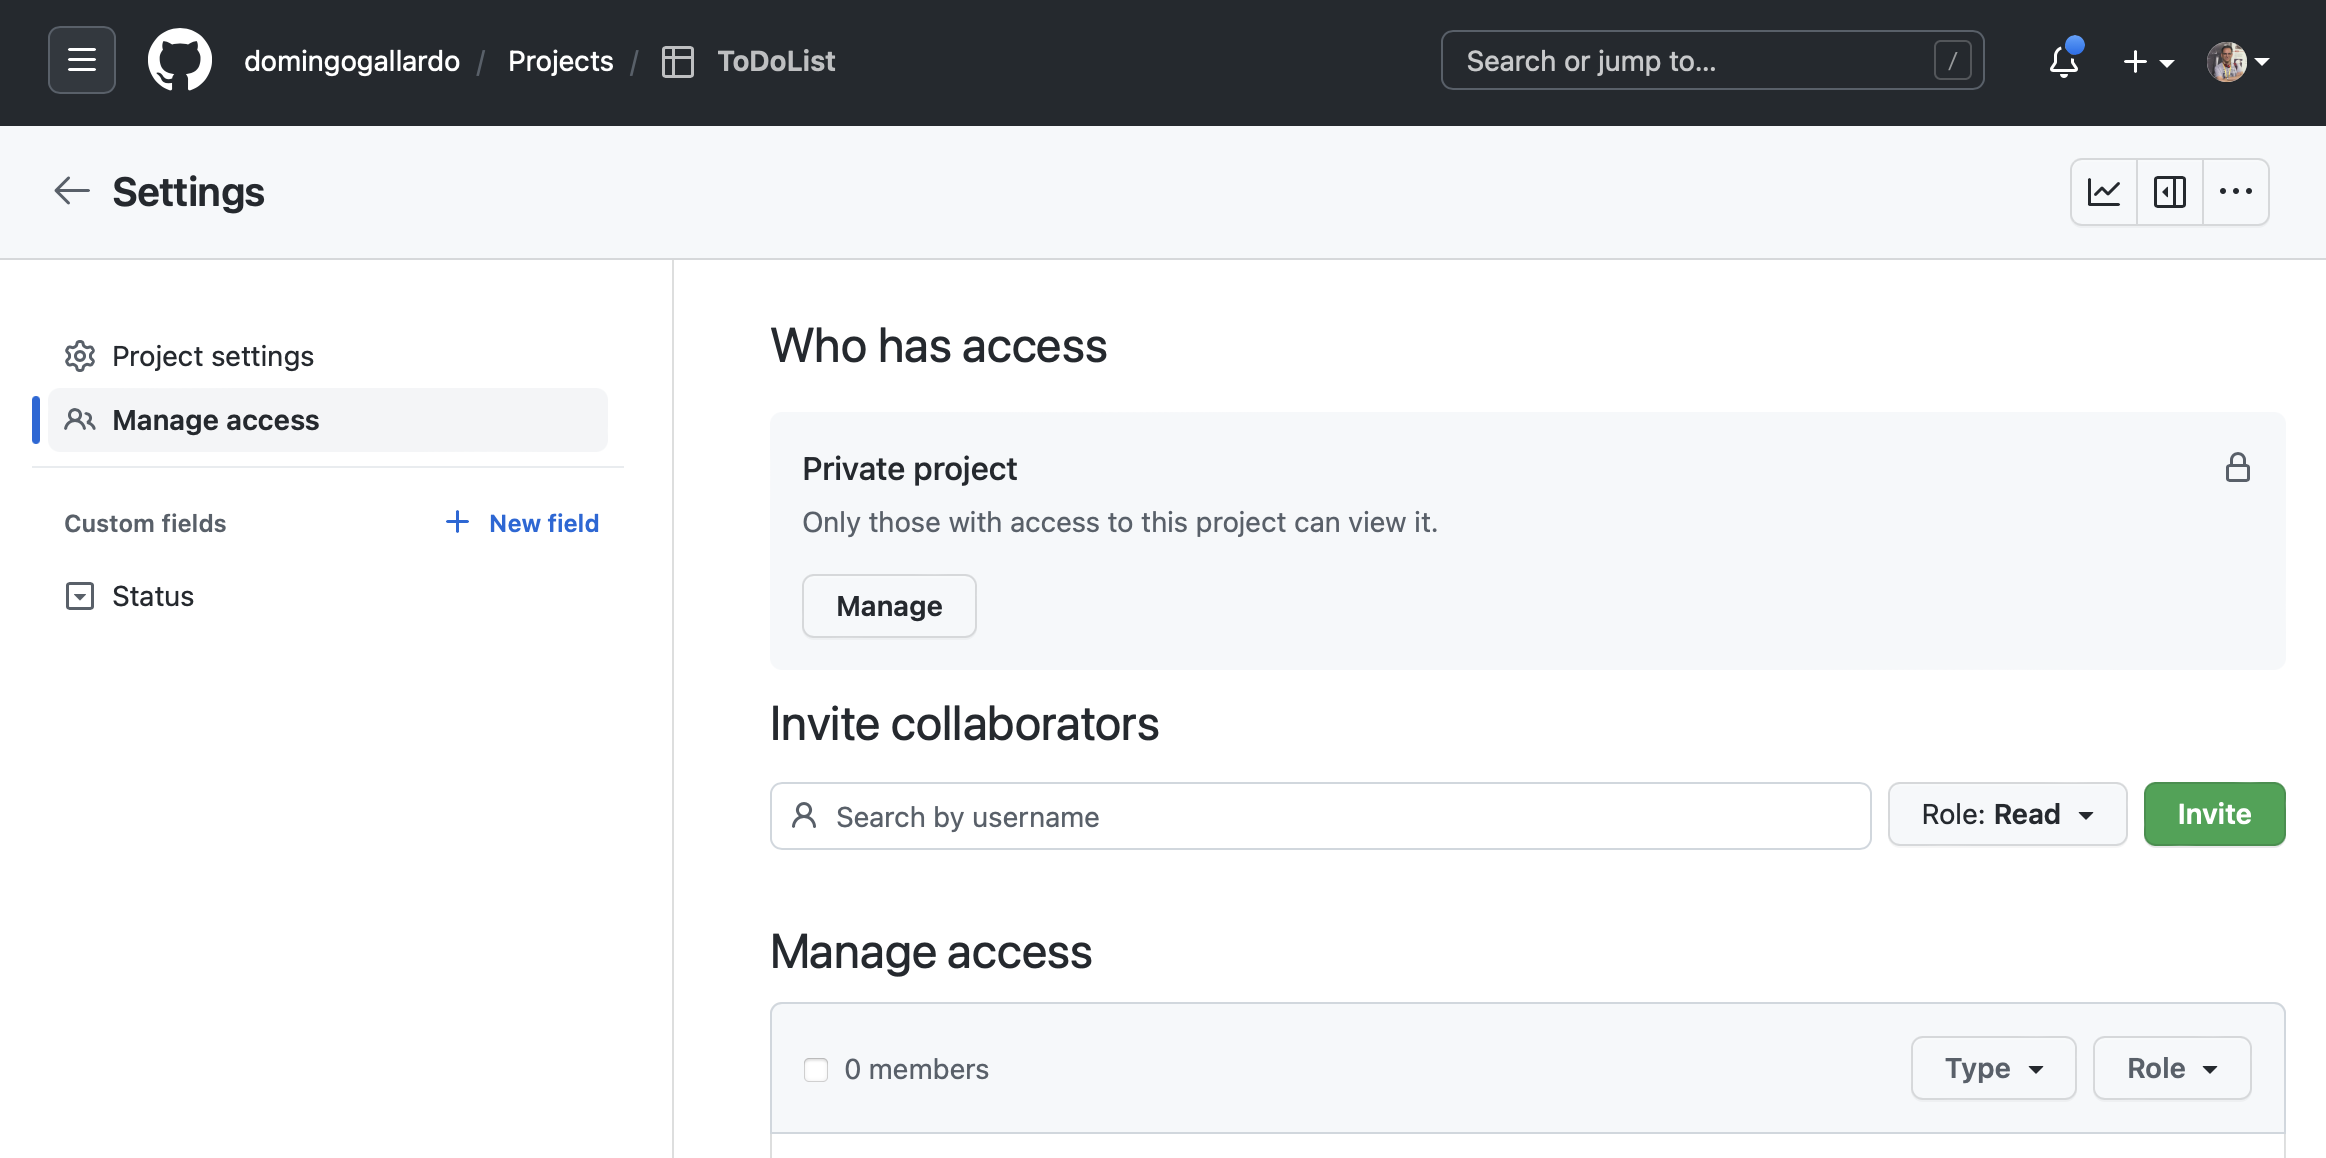
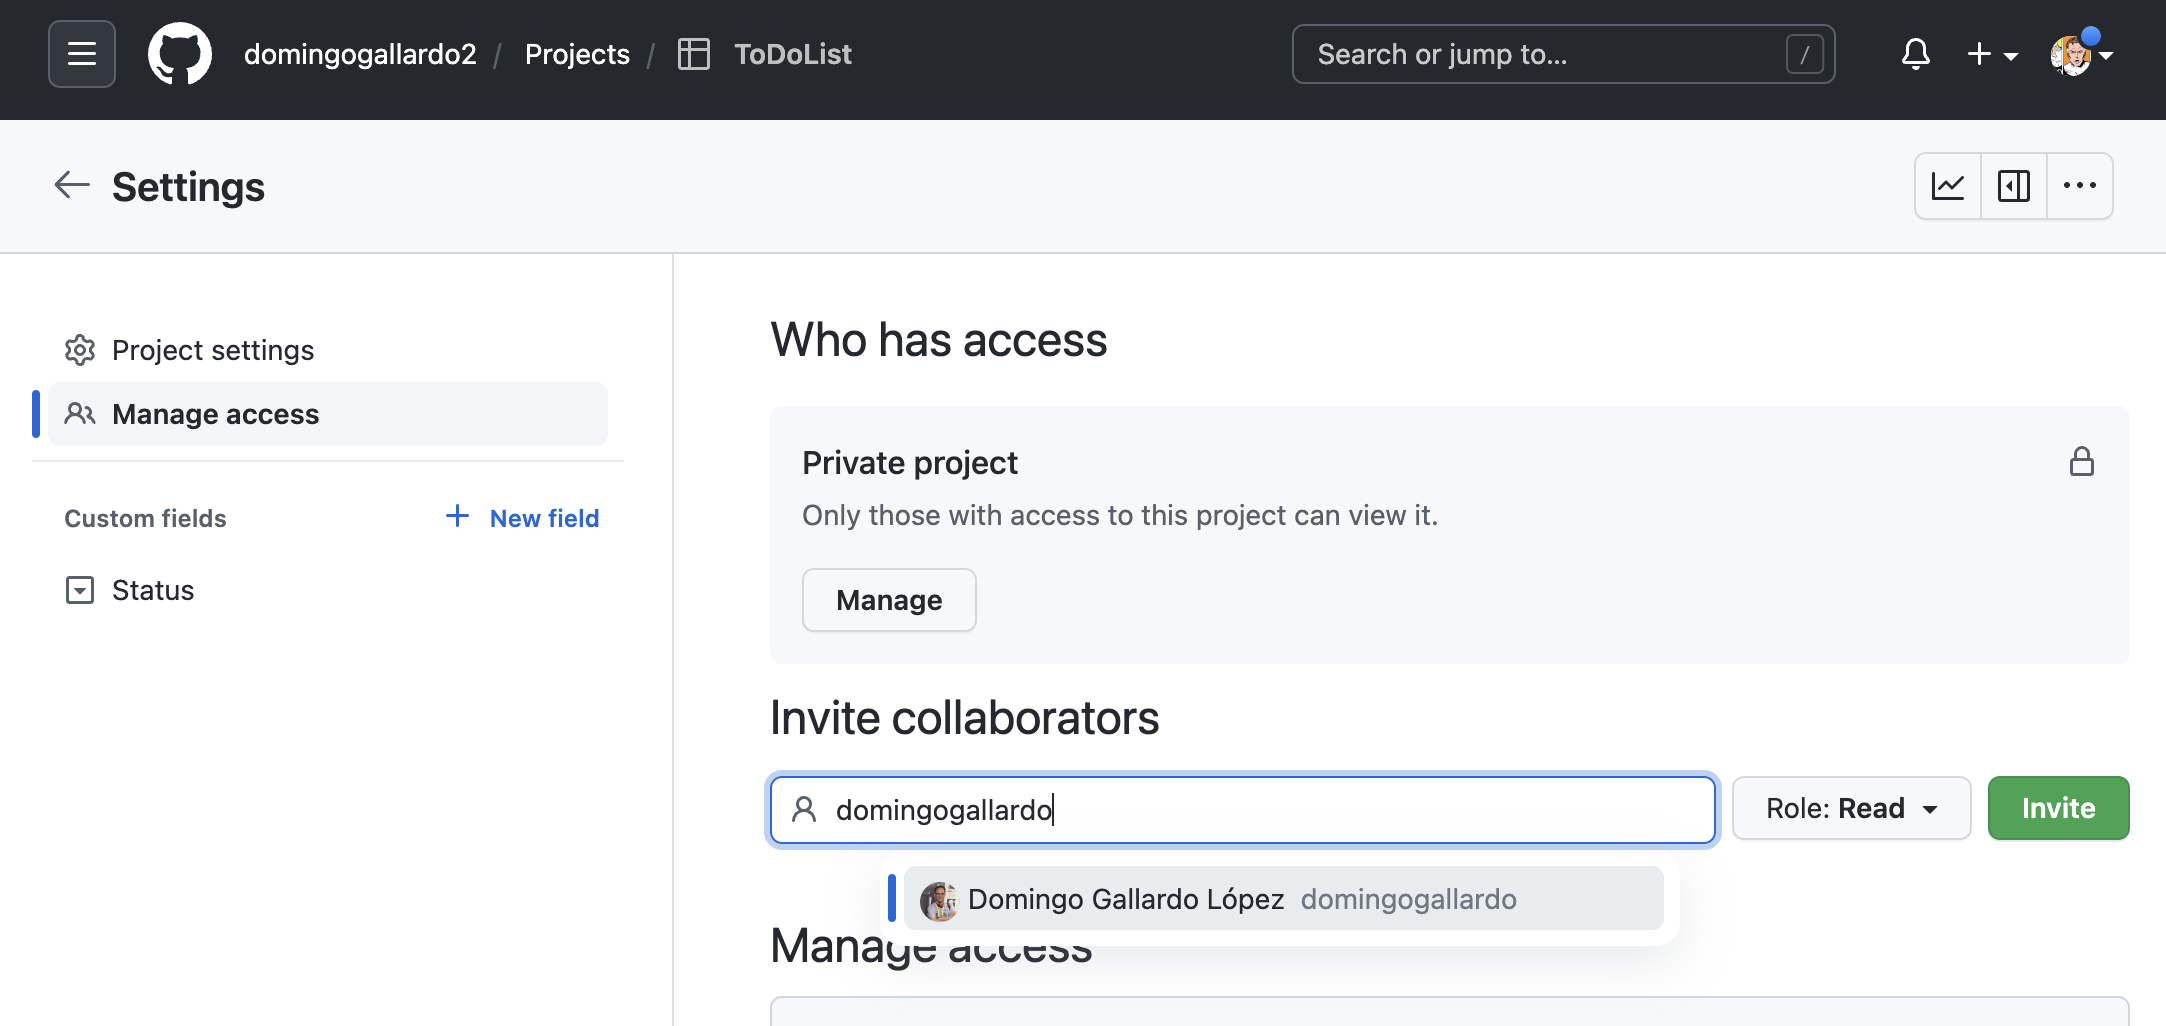
Proyectos GitHub

diff --git a/docs/02-todolist/practica2.md b/docs/02-todolist/practica2.md
@@ -1964,12 +1964,11 @@ miembros del equipo:
   
     <img src="./imagenes/github-releases.png" width="600px"/>
 
-- **Tablero de proyecto**: Un tablero de proyecto nos ayudará a hacer
-  un seguimiento de en qué estado se encuentra cada issue:
-  cuáles han sido implementados, cuáles faltan por asignar,
+- **Tablero de proyecto**: Un tablero de proyecto en GitHub nos
+  ayudará a hacer un seguimiento de en qué estado se encuentra cada
+  issue: cuáles han sido implementados, cuáles faltan por asignar,
   implementar, probar, etc. Vamos a utilizar la funcionalidad propia
-  de GitHub llamada _Projects_. Consultar
-  [project boards](https://help.github.com/articles/tracking-the-progress-of-your-work-with-project-boards/).
+  de GitHub llamada _Projects_. Consultar [Quickstart for Projects](https://docs.github.com/en/issues/planning-and-tracking-with-projects/learning-about-projects/quickstart-for-projects)
 
     <img src="./imagenes/github-tablero.png" width="700px"/>
 
@@ -2134,32 +2133,54 @@ integrar en la rama principal la moveremos a _Terminadas_.
 
 #### Tablero de GitHub ####
 
+GitHub ha cambiado recientemente la forma de gestionar tableros para
+hacerla mucho más flexible a como era el curso pasado. Un tablero está
+asociado a la persona y no a un repositorio. Y puede contener issues
+de más de un repositorio. Además es posible visualizar el tablero de
+dos formas: como un tablero o como una hoja de cálculo. 
+
+Puedes encontrar más información sobre los GitHub Projects en [este
+enlace](https://docs.github.com/en/issues/planning-and-tracking-with-projects/learning-about-projects/quickstart-for-projects).
+
+En la asignatura vamos a usar los proyectos de GitHub para mostrar, en forma de
+tablero, los issues del repositorio de la práctica. También
+podrémos acceder a los pull requests desde cada uno de los issues (los
+issues están enlazados a su pull request).
+
+Lo primero que debes hacer es crear un proyecto desde el enlace
+`Projects` en tu perfil de GitHub:
+
+<img src="./imagenes/project-profile.png" width="400px">
+
+Selecciona la opción **Board** y ponle como nombre `ToDoList`.
 
 <img src="./imagenes/crear-proyecto.png" width="600px"/>
 
-<img src="./imagenes/workflow-1.png" width="600px"/>
+Define una columna adicional _In Pull Request_, entre _In Progress_ y
+_Done_:
 
-<img src="./imagenes/workflow-2.png" width="600px"/>
+<img src="./imagenes/proyecto-todolist.png" width="600px"/>
 
-<img src="./imagenes/acceso-proyecto.png" width="600px"/>
-
-Configura un tablero de GitHub, poniendo como nombre `ToDoList` y
-seleccionando como plantilla `Automated kanban`. Elimina las tarjetas
-en la columna `To do` y añade la columna `In pull request` entre `In
-progress` y `Done`.
-
-<img src="./imagenes/project-practica.png" width="900px">
 
 En las columnas deberán aparecer los issues del proyecto (y los PRs
 estarán enlazados en ellos). GitHub permite automatizar el movimiento
-de las tarjetas de una columna a otra. A continuación mostramos la
-configuración que usaremos:
+de las tarjetas de una columna a otra. 
 
-<img src="./imagenes/projecto-practica-automation.png" width="900px"/>
+Activa dos flujos de trabajo. Uno para que cuando un issue nuevo se
+añada al proyecto se coloque en la columna _To Do_:
 
-Deberemos mover manualmente las tarjetas en algún caso, porque GitHub
-no podrá detectar las condiciones. En resumen, las condiciones de las
-fichas que habrá en cada columna son las siguientes:
+<img src="./imagenes/workflow-1.png" width="600px"/>
+
+Y otro para que cuando se cierre un issue se mueva a la columna de _Done_:
+
+<img src="./imagenes/workflow-2.png" width="600px"/>
+
+El resto de cambios de los issues los tendrás que hacer
+manualmente. Por ejemplo, cuando crees el _pull request_ asociado a un
+issue tendrás que mover el issue a la columna de _In Pull Request_.
+
+En resumen, las condiciones de las fichas que habrá en cada columna
+son las siguientes: 
 
 - Columna `To do`: Nuevos issues añadidos al proyecto. Cuando
   añadimos el proyecto al issue (en la página del issue) GitHub
@@ -2170,6 +2191,12 @@ fichas que habrá en cada columna son las siguientes:
   un PR y lo enlacemos con el issue. Manual.
   GitHub lo coloca automáticamente en esta columna. implementado por el pull request manualmente.
 - Columna `Done`: pull requests cerrados. GitHub lo detecta automáticamente.
+
+Por último, en la opción _Settings > Manage access_ comparte el
+tablero con mi usuario de GitHub `domingogallardo`, para que pueda
+revisarlo:
+
+<img src="./imagenes/acceso-proyecto.png" width="600px"/>
 
 #### Issues ####
 
@@ -2186,7 +2213,7 @@ Crea el primer issue, correspondiente a la _feature_ a desarrollar
 <img src="./imagenes/issue-acerca-de-detalle.png" width="600px"/>
 
 Añade el issue al proyecto (desde la página del issue) y
-automáticamente se añadirá en la columna `To do`.
+automáticamente se añadirá en la columna `To Do`.
 
 
 #### Desarrollo ####
